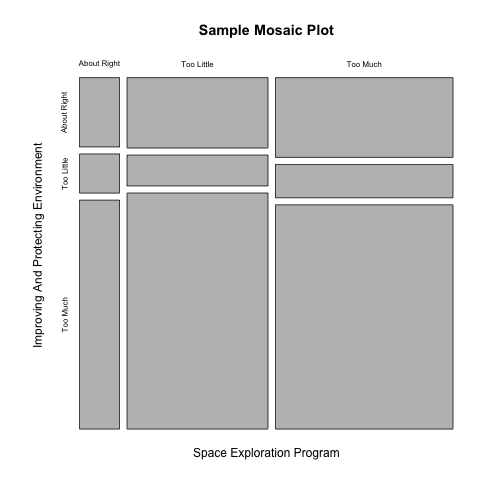
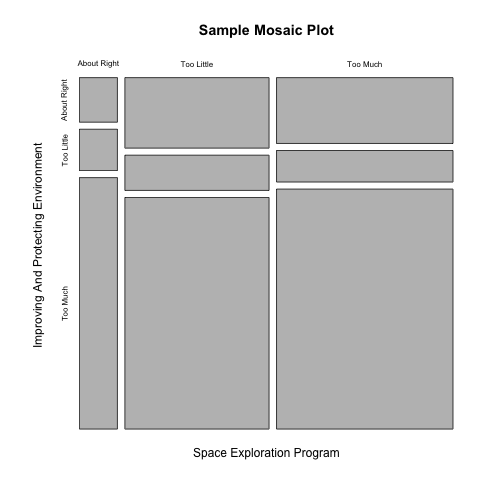
Second commit: minor editing.

diff --git a/index.html b/index.html
@@ -46,10 +46,9 @@
     <h2>About The App</h2>
   </hgroup>
   <article data-timings="">
-    <p>I tend to have a strong interest in social issues. As such, I have created an app 
-which will quickly and easily allow one to explore the relationship between two 
-categorical variables related to attitudes on national spending as measured by 
-the General Social Survey.  </p>
+    <p>I have created an app which will quickly and easily allow one to explore the 
+relationship between two categorical variables related to attitudes on national 
+spending as measured by the General Social Survey.  </p>
 
 <p>For those unfamiliar, The General Social Survey is a biennial national survey conducted 
 by the National Opinion Research Center at the University of Chicago. It is a reliable 
@@ -66,19 +65,19 @@ For more information, please visit the GSS website: <a href="http://www3.norc.or
   </hgroup>
   <article data-timings="">
     <p>In the interest of simplicity and focused attention, I have selected a subset of 
-variables from the complete survey which are limited towards attitudes on national 
-spending. Speaking broadly, I find that since we all pay taxes, we tend to have an opinion 
-about how our tax revenue ought to be spent, and national spending seems to be a good 
-indicator for our citizens&#39; attidues on national priorities.  </p>
+variables from the complete survey which are limited to attitudes on national 
+spending. Speaking broadly, national populations appear to have strong opinions 
+regarding how our tax revenue ought to be spent, and national spending seems to 
+be a good indicator for our citizens&#39; attidues regarding national priorities.  </p>
 
 <p>The variables available in the app are both categorical with three response levels: 
-&quot;About Right&quot;, &quot;Too Little&quot;, and &quot;Too Much&quot;. The app asks the user to select two variables, 
-each of which is a national spending program (or category thereof), and a year of 
-interest. This creates a subset of the data based on the year of interest, and then 
-renders a mosaic plot representing the relationship between the two variables as 
-a box with area porportional to the whole plot. Below the plot is a proportion table 
-which explicitly states those proportions as percent values. Following that is a 
-Chi-Square test of independence which determines whether or not we can conclude 
+&quot;About Right&quot;, &quot;Too Little&quot;, and &quot;Too Much&quot;. The app asks the user to select two 
+variables, each of which is a national spending program (or category thereof), and 
+a year of interest. This creates a subset of the data based on the year of interest, 
+and then renders a mosaic plot representing the relationship between the two variables 
+as a box with area porportional to the whole plot. Below the plot is a proportion 
+table which explicitly states those proportions as percent values. Following that 
+is a Chi-Square test of independence which determines whether or not we can conclude 
 that two variables are related at the 5% significance level.</p>
 
   </article>
@@ -90,9 +89,9 @@ that two variables are related at the 5% significance level.</p>
     <h2>For Example</h2>
   </hgroup>
   <article data-timings="">
-    <p>This is a sample mosaic plot which generates 1000 theoretical survey observations. 
-They are random, but probability weighted, and are generated each time the page 
-is reloaded.
+    <p>This is a sample mosaic plot which generates 1000 randomly-generated survey observations. 
+Though the observations are randomly generated each time the page is reloaded, 
+they are probability weighted, and will therefore tend produce similar results.
 <img src="figure/unnamed-chunk-1.png" alt="plot of chunk unnamed-chunk-1"> </p>
 
   </article>
@@ -106,15 +105,15 @@ is reloaded.
   <article data-timings="">
     <pre><code>##              
 ##               About Right Too Little Too Much
-##   About Right         2.3        8.2     11.7
-##   Too Little          1.3        3.6      4.9
-##   Too Much            7.6       27.5     32.9
+##   About Right         1.4        8.4      9.6
+##   Too Little          1.3        4.2      4.6
+##   Too Much            7.9       27.6     35.0
 </code></pre>
 
 <pre><code>## Number of cases in table: 1000 
 ## Number of factors: 2 
 ## Test for independence of all factors:
-##  Chisq = 1.9, df = 4, p-value = 0.8
+##  Chisq = 4, df = 4, p-value = 0.4
 </code></pre>
 
 <pre><code>## [1] &quot;Null Hypothesis: These two variables are independent.&quot;

diff --git a/index.md b/index.md
@@ -13,10 +13,9 @@ knit        : slidify::knit2slides
 
 ## About The App
 
-I tend to have a strong interest in social issues. As such, I have created an app 
-which will quickly and easily allow one to explore the relationship between two 
-categorical variables related to attitudes on national spending as measured by 
-the General Social Survey.  
+I have created an app which will quickly and easily allow one to explore the 
+relationship between two categorical variables related to attitudes on national 
+spending as measured by the General Social Survey.  
 
 For those unfamiliar, The General Social Survey is a biennial national survey conducted 
 by the National Opinion Research Center at the University of Chicago. It is a reliable 
@@ -28,28 +27,28 @@ For more information, please visit the GSS website: http://www3.norc.org/GSS+Web
 ## More About The App
 
 In the interest of simplicity and focused attention, I have selected a subset of 
-variables from the complete survey which are limited towards attitudes on national 
-spending. Speaking broadly, I find that since we all pay taxes, we tend to have an opinion 
-about how our tax revenue ought to be spent, and national spending seems to be a good 
-indicator for our citizens' attidues on national priorities.  
+variables from the complete survey which are limited to attitudes on national 
+spending. Speaking broadly, national populations appear to have strong opinions 
+regarding how our tax revenue ought to be spent, and national spending seems to 
+be a good indicator for our citizens' attidues regarding national priorities.  
 
 The variables available in the app are both categorical with three response levels: 
-"About Right", "Too Little", and "Too Much". The app asks the user to select two variables, 
-each of which is a national spending program (or category thereof), and a year of 
-interest. This creates a subset of the data based on the year of interest, and then 
-renders a mosaic plot representing the relationship between the two variables as 
-a box with area porportional to the whole plot. Below the plot is a proportion table 
-which explicitly states those proportions as percent values. Following that is a 
-Chi-Square test of independence which determines whether or not we can conclude 
+"About Right", "Too Little", and "Too Much". The app asks the user to select two 
+variables, each of which is a national spending program (or category thereof), and 
+a year of interest. This creates a subset of the data based on the year of interest, 
+and then renders a mosaic plot representing the relationship between the two variables 
+as a box with area porportional to the whole plot. Below the plot is a proportion 
+table which explicitly states those proportions as percent values. Following that 
+is a Chi-Square test of independence which determines whether or not we can conclude 
 that two variables are related at the 5% significance level.
 
 --- .class #id 
 
 ## For Example
 
-This is a sample mosaic plot which generates 1000 theoretical survey observations. 
-They are random, but probability weighted, and are generated each time the page 
-is reloaded.
+This is a sample mosaic plot which generates 1000 randomly-generated survey observations. 
+Though the observations are randomly generated each time the page is reloaded, 
+they are probability weighted, and will therefore tend produce similar results.
 ![plot of chunk unnamed-chunk-1](figure/unnamed-chunk-1.png) 
 
 --- .class #id 
@@ -60,16 +59,16 @@ is reloaded.
 ```
 ##              
 ##               About Right Too Little Too Much
-##   About Right         2.3        8.2     11.7
-##   Too Little          1.3        3.6      4.9
-##   Too Much            7.6       27.5     32.9
+##   About Right         1.4        8.4      9.6
+##   Too Little          1.3        4.2      4.6
+##   Too Much            7.9       27.6     35.0
 ```
 
 ```
 ## Number of cases in table: 1000 
 ## Number of factors: 2 
 ## Test for independence of all factors:
-## 	Chisq = 1.9, df = 4, p-value = 0.8
+## 	Chisq = 4, df = 4, p-value = 0.4
 ```
 
 ```
